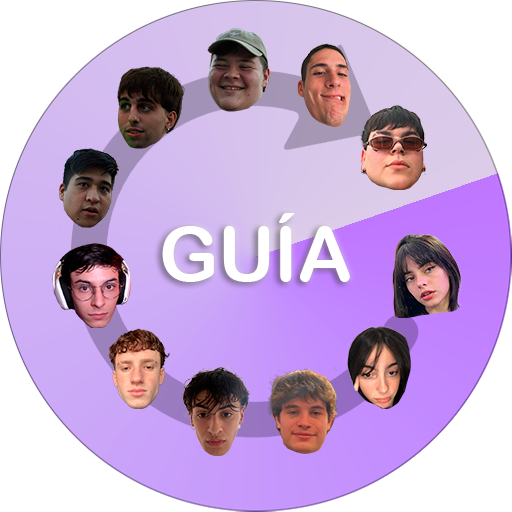
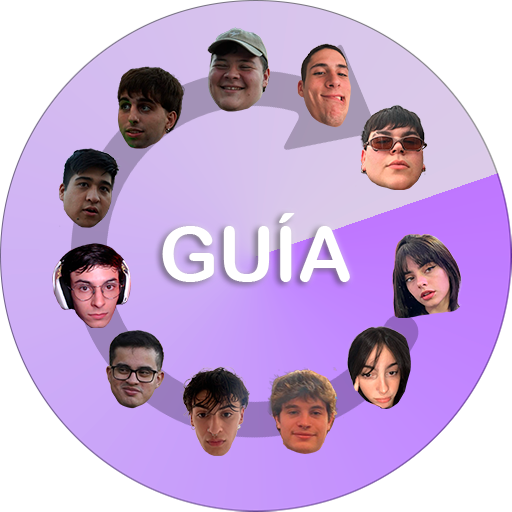
arreglando cosas y agregando a thiago

Changed region(s): [[0.1875, 0.625, 0.3438, 0.8125]]

diff --git a/suika/index.html b/suika/index.html
@@ -6,213 +6,215 @@
   <title>Suika Twitch Game</title>
   <meta property="og:title" content="Suika Twitch Game" />
   <style>
-  @import url(https://fonts.bunny.net/css?family=azeret-mono:400,700,900);
-  :root {
-    --col-bg: #e5d4ff;
-    --col-bg-light: #d4b8fd;
-    --col-bg-lighter: #c096ff;
-    --col-primary: #9146ff;
-    --col-primary-dark: #634e83;
-    --col-primary-light: #c096ff;
-    --col-shadow: rgba(0, 0, 0, 0.25);
-    --col-white: #fff;
-  }
+ @import url(https://fonts.bunny.net/css?family=azeret-mono:400,700,900);
 
-  * {
-    box-sizing: border-box;
-    padding: 0;
-    margin: 0;
-    line-height: 1;
-  }
+:root {
+  --col-bg: #e5d4ff;
+  --col-bg-light: #d4b8fd;
+  --col-bg-lighter: #c096ff;
+  --col-primary: #9146ff;
+  --col-primary-dark: #634e83;
+  --col-primary-light: #c096ff;
+  --col-shadow: rgba(0, 0, 0, 0.25);
+  --col-white: #fff;
+}
 
-  body {
-    background-color: var(--col-bg);
-    font-family: 'Azeret Mono', sans-serif;
-  }
+* {
+  box-sizing: border-box;
+  padding: 0;
+  margin: 0;
+  line-height: 1;
+}
 
-  .container {
-    width: 100%;
-    max-width: 640px;
-    margin: 0 auto;
-    height: 100vh;
-  }
+body {
+  background-color: var(--col-bg);
+  font-family: 'Azeret Mono', sans-serif;
+}
 
-  #game-canvas {
-    position: relative;
-  }
+.container {
+  width: 100%;
+  max-width: 640px;
+  margin: 0 auto;
+  height: 100vh;
+}
 
-  #game-ui {
-    position: absolute;
-    width: 100%;
-    height: 100%;
-    pointer-events: none;
-    user-select: none;
-    font-weight: 700;
-    display: none;
-    transform-origin: top left;
-    color: var(--col-primary-dark);
-  }
+#game-canvas {
+  position: relative;
+}
 
-  #game-score {
-    position: absolute;
-    width: 100%;
-    border-bottom: 0.2vh dotted #333;
-    font-size: 7vh;
-    font-weight: 900;
-    padding-left: 2vw;
-    color: var(--col-bg-lighter);
-    text-shadow: 0.5vw 0.5vw 0 var(--col-primary), -0.5vw -0.5vw 0 var(--col-primary), -0.5vw 0.5vw 0 var(--col-primary), 0.5vw -0.5vw 0 var(--col-primary);
-  }
+#game-ui {
+  position: absolute;
+  width: 100%;
+  height: 100%;
+  pointer-events: none;
+  user-select: none;
+  font-weight: 700;
+  display: none;
+  transform-origin: top left;
+  color: var(--col-primary-dark);
+}
 
-  #game-start-container {
-    position: absolute;
-    top: 75vh; /* Ajustado según viewport height */
-    left: 50vw;
-    transform: translate(-50%, -50%);
-    text-align: center;
-    z-index: 10; /* Asegúrate de que esté sobre el canvas */
-  }
+#game-score {
+  position: absolute;
+  width: 100%;
+  border-bottom: 0.2vh dotted #333;
+  font-size: 7vh;
+  font-weight: 900;
+  padding-left: 2vw;
+  color: var(--col-bg-lighter);
+  text-shadow: 3px 3px 0 var(--col-primary), -3px -3px 0 var(--col-primary), -3px 3px 0 var(--col-primary), 3px -3px 0 var(--col-primary);
+}
 
-  #game-end-container {
-    position: absolute;
-    width: 100%;
-    height: 100%;
-    display: flex;
-    align-items: center;
-    justify-content: center;
-    background-color: var(--col-shadow);
-  }
+#game-start-container {
+  position: absolute;
+  top: 75vh; /* Ajustado según viewport height */
+  left: 50vw;
+  transform: translate(-50%, -50%);
+  text-align: center;
+  z-index: 10; /* Asegúrate de que esté sobre el canvas */
+}
 
-  #game-end {
-    text-align: center;
-    padding: 4vh 6vw;
-    background-color: var(--col-bg-lighter);
-    border: 0.5vh solid var(--col-primary);
-    box-shadow: 0 0.5vh 5vw var(--col-shadow);
-    border-radius: 3vh;
-    margin: 0 auto;
-    pointer-events: initial;
-    user-select: initial;
-  }
+#game-end-container {
+  position: absolute;
+  width: 100%;
+  height: 100%;
+  display: flex;
+  align-items: center;
+  justify-content: center;
+  background-color: var(--col-shadow);
+}
 
-  #game-end-title {
-    font-weight: 700;
-    font-size: 5vh;
-    color: var(--col-primary-dark);
-  }
+#game-end {
+  text-align: center;
+  padding: 4vh 6vw;
+  background-color: var(--col-bg-lighter);
+  border: 0.5vh solid var(--col-primary);
+  box-shadow: 0 0.5vh 5vw var(--col-shadow);
+  border-radius: 3vh;
+  margin: 0 auto;
+  pointer-events: initial;
+  user-select: initial;
+}
 
-  #game-end-link, #boton-jugar, .button-top-left {
-    display: inline-block;
-    color: var(--col-white);
-    font-size: 2.5vh;
-    text-decoration: none;
-    background-color: var(--col-primary-light);
-    padding: 2vh;
-    margin-top: 2vh;
-    border-radius: 2vh;
-    box-shadow: 0.5vw 0.5vw 0 var(--col-shadow);
-  }
+#game-end-title {
+  font-weight: 700;
+  font-size: 5vh;
+  color: var(--col-primary-dark);
+}
 
-  #boton-jugar, .button-top-left {
-    margin-top: 3vh;
-    padding: 3vh;
-    padding-right: 6vw;
-    padding-left: 6vw;
-    border-radius: 2.5vh;
-  }
+#game-end-link, #boton-jugar, .button-top-left {
+  display: inline-block;
+  color: var(--col-white);
+  font-size: 2.5vh;
+  text-decoration: none;
+  background-color: var(--col-primary-light);
+  padding: 2vh;
+  margin-top: 2vh;
+  border-radius: 2vh;
+  box-shadow: 0.5vw 0.5vw 0 var(--col-shadow);
+}
 
-  .button-top-left {
-    position: fixed;
-    top: 10vh;
-    left: 5vw;
-    transform: translateY(-50%);
-    padding: 1vh 2vw;
-    border-radius: 2vh;
-    cursor: pointer;
-    z-index: 100;
-  }
+#boton-jugar, .button-top-left {
+  margin-top: 3vh;
+  padding: 3vh;
+  padding-right: 6vw;
+  padding-left: 6vw;
+  border-radius: 2.5vh;
+}
 
-  #game-end-link:hover, #boton-jugar:hover, .button-top-left:hover {
-    background-color: var(--col-primary);
-    box-shadow: 0.5vw 0.5vw 0 var(--col-shadow);
-  }
+.button-top-left {
+  position: fixed;
+  top: 10vh;
+  left: 5vw;
+  transform: translateY(-50%);
+  padding: 1vh 2vw;
+  border-radius: 2vh;
+  cursor: pointer;
+  z-index: 100;
+}
 
-  #game-status {
-    position: absolute;
-    left: 0;
-    right: 0;
-    bottom: 0;
-    height: 5vh;
-    background-color: var(--col-bg-lighter);
-    display: flex;
-  }
+#game-end-link:hover, #boton-jugar:hover, .button-top-left:hover {
+  background-color: var(--col-primary);
+  box-shadow: 0.5vw 0.5vw 0 var(--col-shadow);
+}
 
-  .game-status-item {
-    display: flex;
-    line-height: 1;
-    align-items: center;
-    margin-right: 3vw;
-  }
+#game-status {
+  position: absolute;
+  left: 0;
+  right: 0;
+  bottom: 0;
+  height: 5vh;
+  background-color: var(--col-bg-lighter);
+  display: flex;
+}
 
-  .game-status-label {
-    color: #666;
-    font-size: 2vh;
-    margin-left: 2vw;
-    margin-right: 1vw;
-  }
+.game-status-item {
+  display: flex;
+  line-height: 1;
+  align-items: center;
+  margin-right: 3vw;
+}
 
-  #game-highscore-value {
-    color: #333;
-    font-weight: 700;
-    font-size: 3vh;
-  }
+.game-status-label {
+  color: #666;
+  font-size: 2vh;
+  margin-left: 2vw;
+  margin-right: 1vw;
+}
 
-  #game-next-fruit {
-    width: 3vh;
-    height: 3vh;
-  }
+#game-highscore-value {
+  color: #333;
+  font-weight: 700;
+  font-size: 3vh;
+}
 
-  /* Popup de instrucciones */
-  .popup {
-    display: none;
-    position: fixed;
-    top: 30vh;
-    left: 8vw;
-    transform: translateY(-50%);
-    z-index: 1000;
-    width: 40vw;
-    background-color: white;
-    border: 0.2vh solid #888;
-    box-shadow: 0 0.5vh 1vw rgba(0, 0, 0, 0.1);
-    padding: 2vh;
-  }
+#game-next-fruit {
+  width: 3vh;
+  height: 3vh;
+}
 
-  .popup-content {
-    text-align: center;
-  }
+/* Popup de instrucciones */
+.popup {
+  display: none;
+  position: fixed;
+  top: 30vh;
+  left: 8vw;
+  transform: translateY(-50%);
+  z-index: 1000;
+  width: 40vw;
+  background-color: white;
+  border: 0.2vh solid #888;
+  box-shadow: 0 0.5vh 1vw rgba(0, 0, 0, 0.1);
+  padding: 2vh;
+}
 
-  #close-popup {
-    position: absolute;
-    top: 1vh;
-    right: 1vh;
-    font-size: 3vh;
-    cursor: pointer;
-  }
+.popup-content {
+  text-align: center;
+}
 
-  /* Imagen Guía - Lado derecho */
-  #bg-guia-container {
-    display: block;
-    position: fixed;
-    top: 50vh;
-    right: 5vw;
-    transform: translateY(-50%);
-    z-index: 100;
-  }
+#close-popup {
+  position: absolute;
+  top: 1vh;
+  right: 1vh;
+  font-size: 3vh;
+  cursor: pointer;
+}
 
-  #bg-guia {
-    width: 20vw;
-    height: auto;
-  }
+/* Imagen Guía - Lado derecho */
+#bg-guia-container {
+  display: block;
+  position: fixed;
+  top: 50vh;
+  right: 5vw;
+  transform: translateY(-50%);
+  z-index: 100;
+}
+
+#bg-guia {
+  width: 20vw;
+  height: auto;
+}
+
   </style>
 </head>
 <body>
